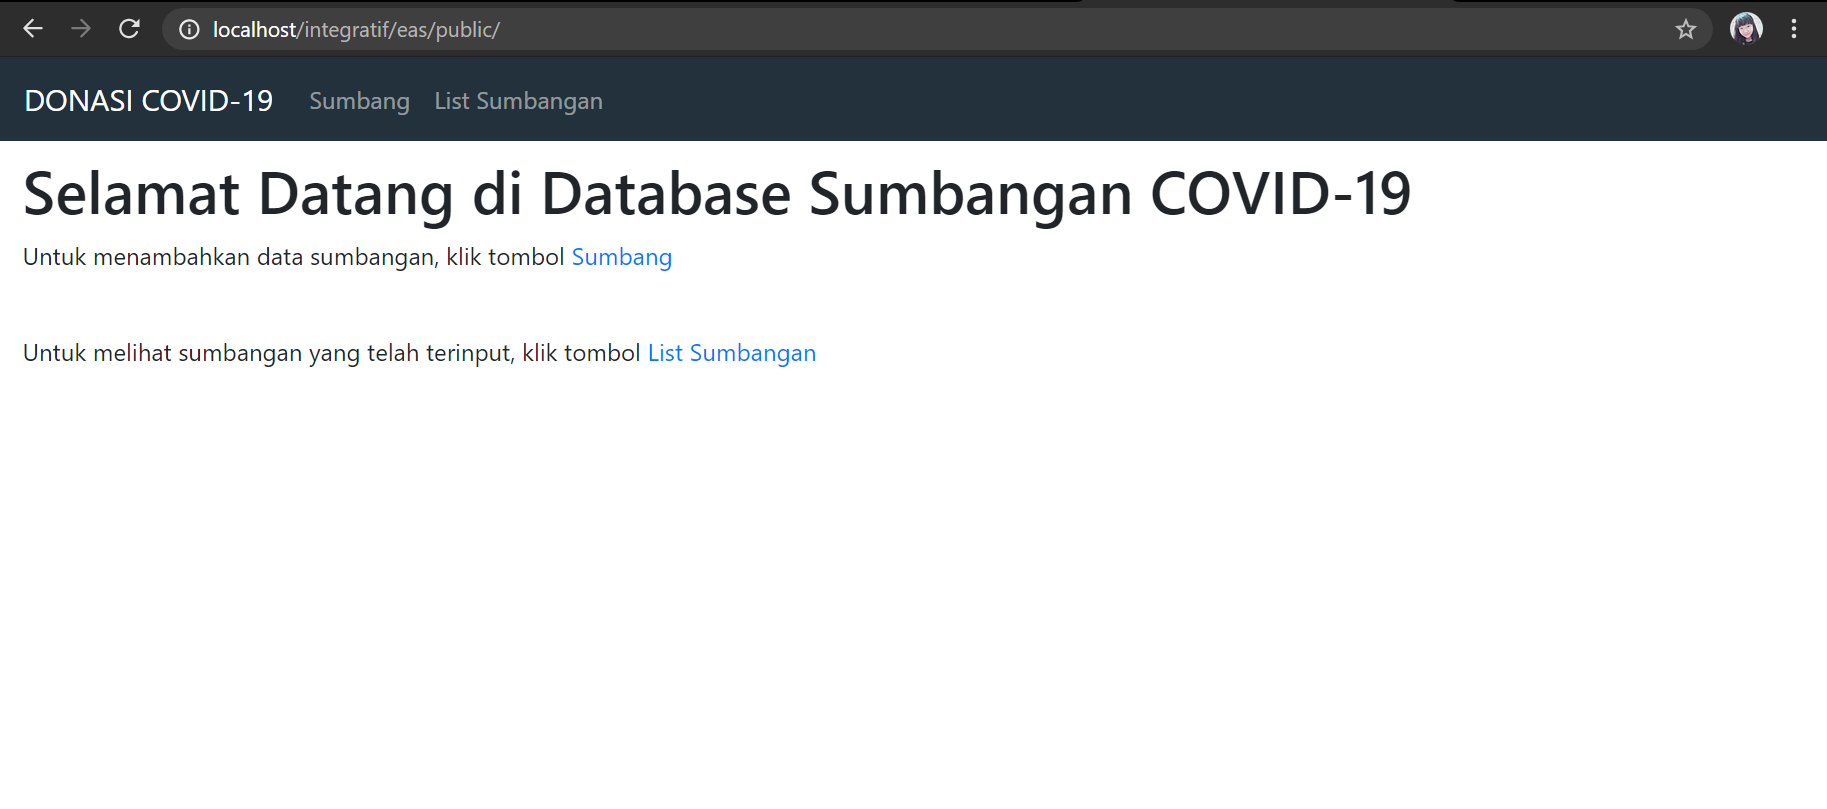
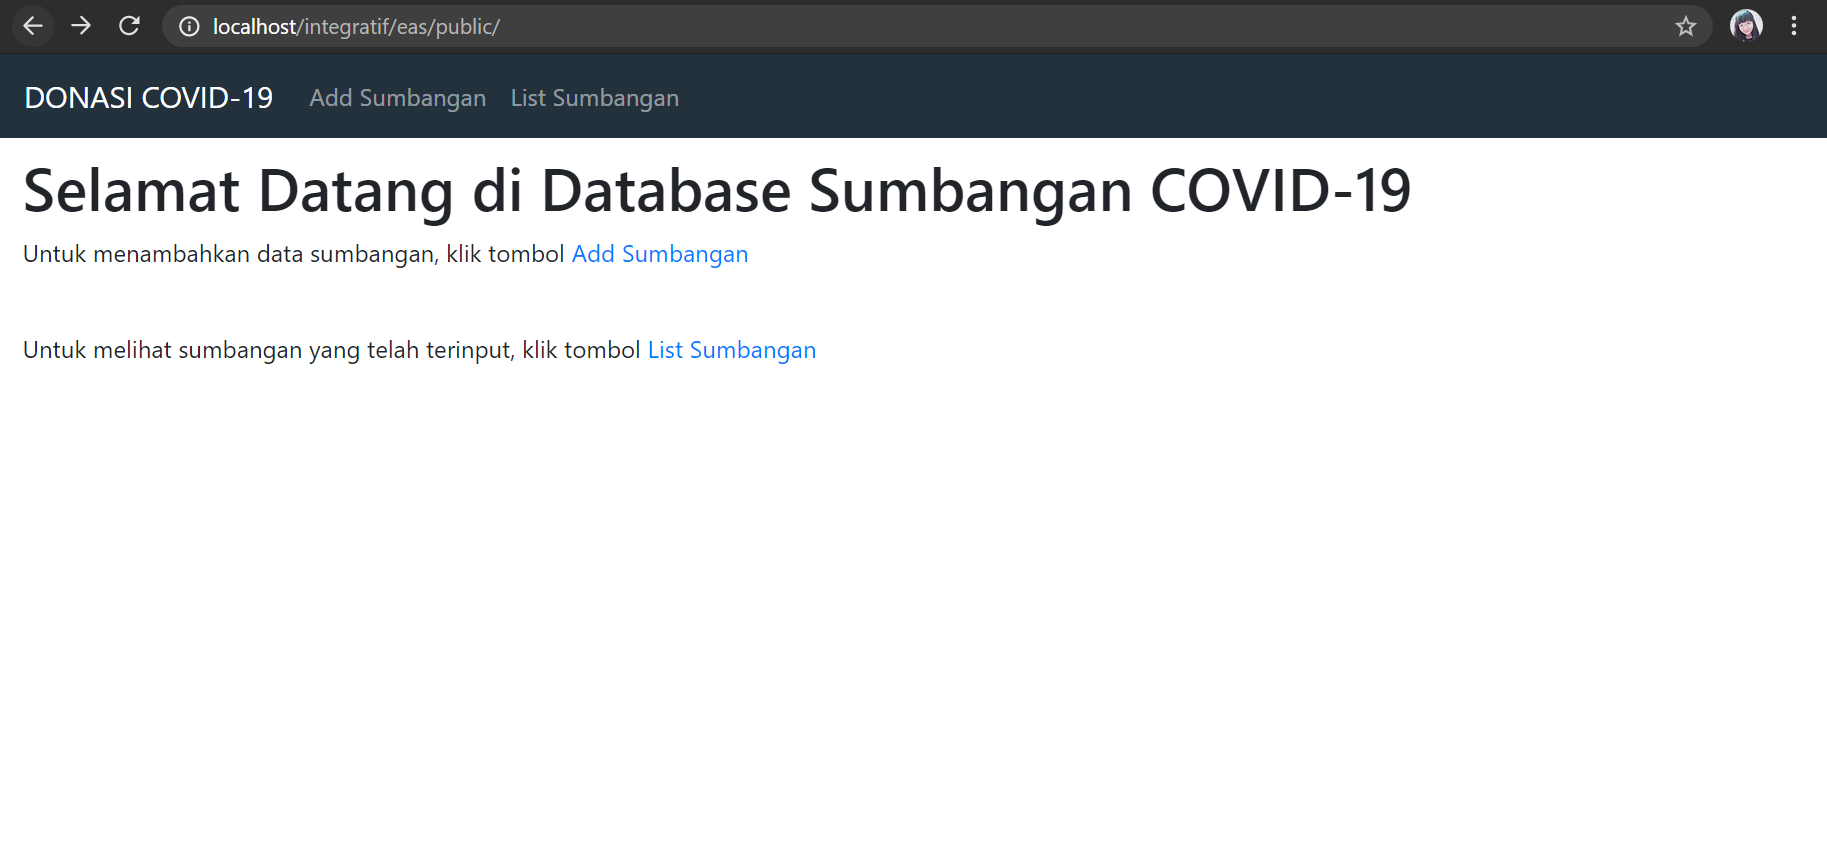
up

diff --git a/app/views/jenis/index.html b/app/views/jenis/index.html
@@ -1,19 +1,18 @@
 {% extends "base.html" %}
- 
+
 {% block body %}
 <div class="container-fluid mt-5 mb-5">
-    <div class="row">
-        <div class="col-4">
-            <h2>Jenis sumbangan</h2>
-        </div>
-        <div class="col">
+    <div class="row-4">
+            <h2 style="text-align: center;">Jenis sumbangan</h2>
+    </div>
+        <div class="row-5">
             <table id="tablepagination" class="table table-bordered table-hover" style="width:100%">
                 <thead>
                   <tr>
-                    <th scope="col">No</th>
-                    <th scope="col">Nama</th>
-                    <th scope="col">Jenis Sumbangan</th>
-                    <th scope="col">Jumlah (kg atau pcs)</th>
+                    <th scope="col" style="text-align: center;">No</th>
+                    <th scope="col" style="text-align: center;">Nama</th>
+                    <th scope="col" style="text-align: center;">Jenis Sumbangan</th>
+                    <th scope="col" style="text-align: center;">Jumlah <font size="1">(kg/liter/pcs/lainnya)</font></th>
                   </tr>
                 </thead>
                 <tbody>

diff --git a/app/views/base.html b/app/views/base.html
@@ -21,7 +21,7 @@
         <div class="collapse navbar-collapse" id="navbarNav">
           <ul class="navbar-nav">
             <li class="nav-item">
-              <a class="nav-link" href="/integratif/eas/public/sumbangan/index">Sumbang {% if nav == TRUE %}<span class="sr-only">(current)</span>{% endif %}</a>
+              <a class="nav-link" href="/integratif/eas/public/sumbangan/index">Add Sumbangan {% if nav == TRUE %}<span class="sr-only">(current)</span>{% endif %}</a>
             </li>
             <li class="nav-item">
               <a class="nav-link" href="/integratif/eas/public/jenis">List Sumbangan {% if nav == FALSE %}<span class="sr-only">(current)</span>{% endif %}</a>

diff --git a/app/views/home/index.html b/app/views/home/index.html
@@ -9,7 +9,7 @@
         </div>
     </div>
     <div class="container-fluid mt-2 mb-2">
-        <p>Untuk menambahkan data sumbangan, klik tombol <a href="../public/sumbangan/index">Sumbang</a></p><br />
+        <p>Untuk menambahkan data sumbangan, klik tombol <a href="../public/sumbangan/index">Add Sumbangan</a></p><br />
         <p>Untuk melihat sumbangan yang telah terinput, klik tombol <a href="../public/jenis">List Sumbangan</a></p>
     </div>
 

diff --git a/app/views/sumbangan/index.html b/app/views/sumbangan/index.html
@@ -20,6 +20,9 @@
     </div>
     {% endif %}
     <br>
+    <div class="row-4">
+        <h2 style="text-align: center;">Form Sumbangan</h2>
+    </div>
     <form action="inputdata" method="POST">
         <div class="form-group">
           <label for="name">Nama</label>
